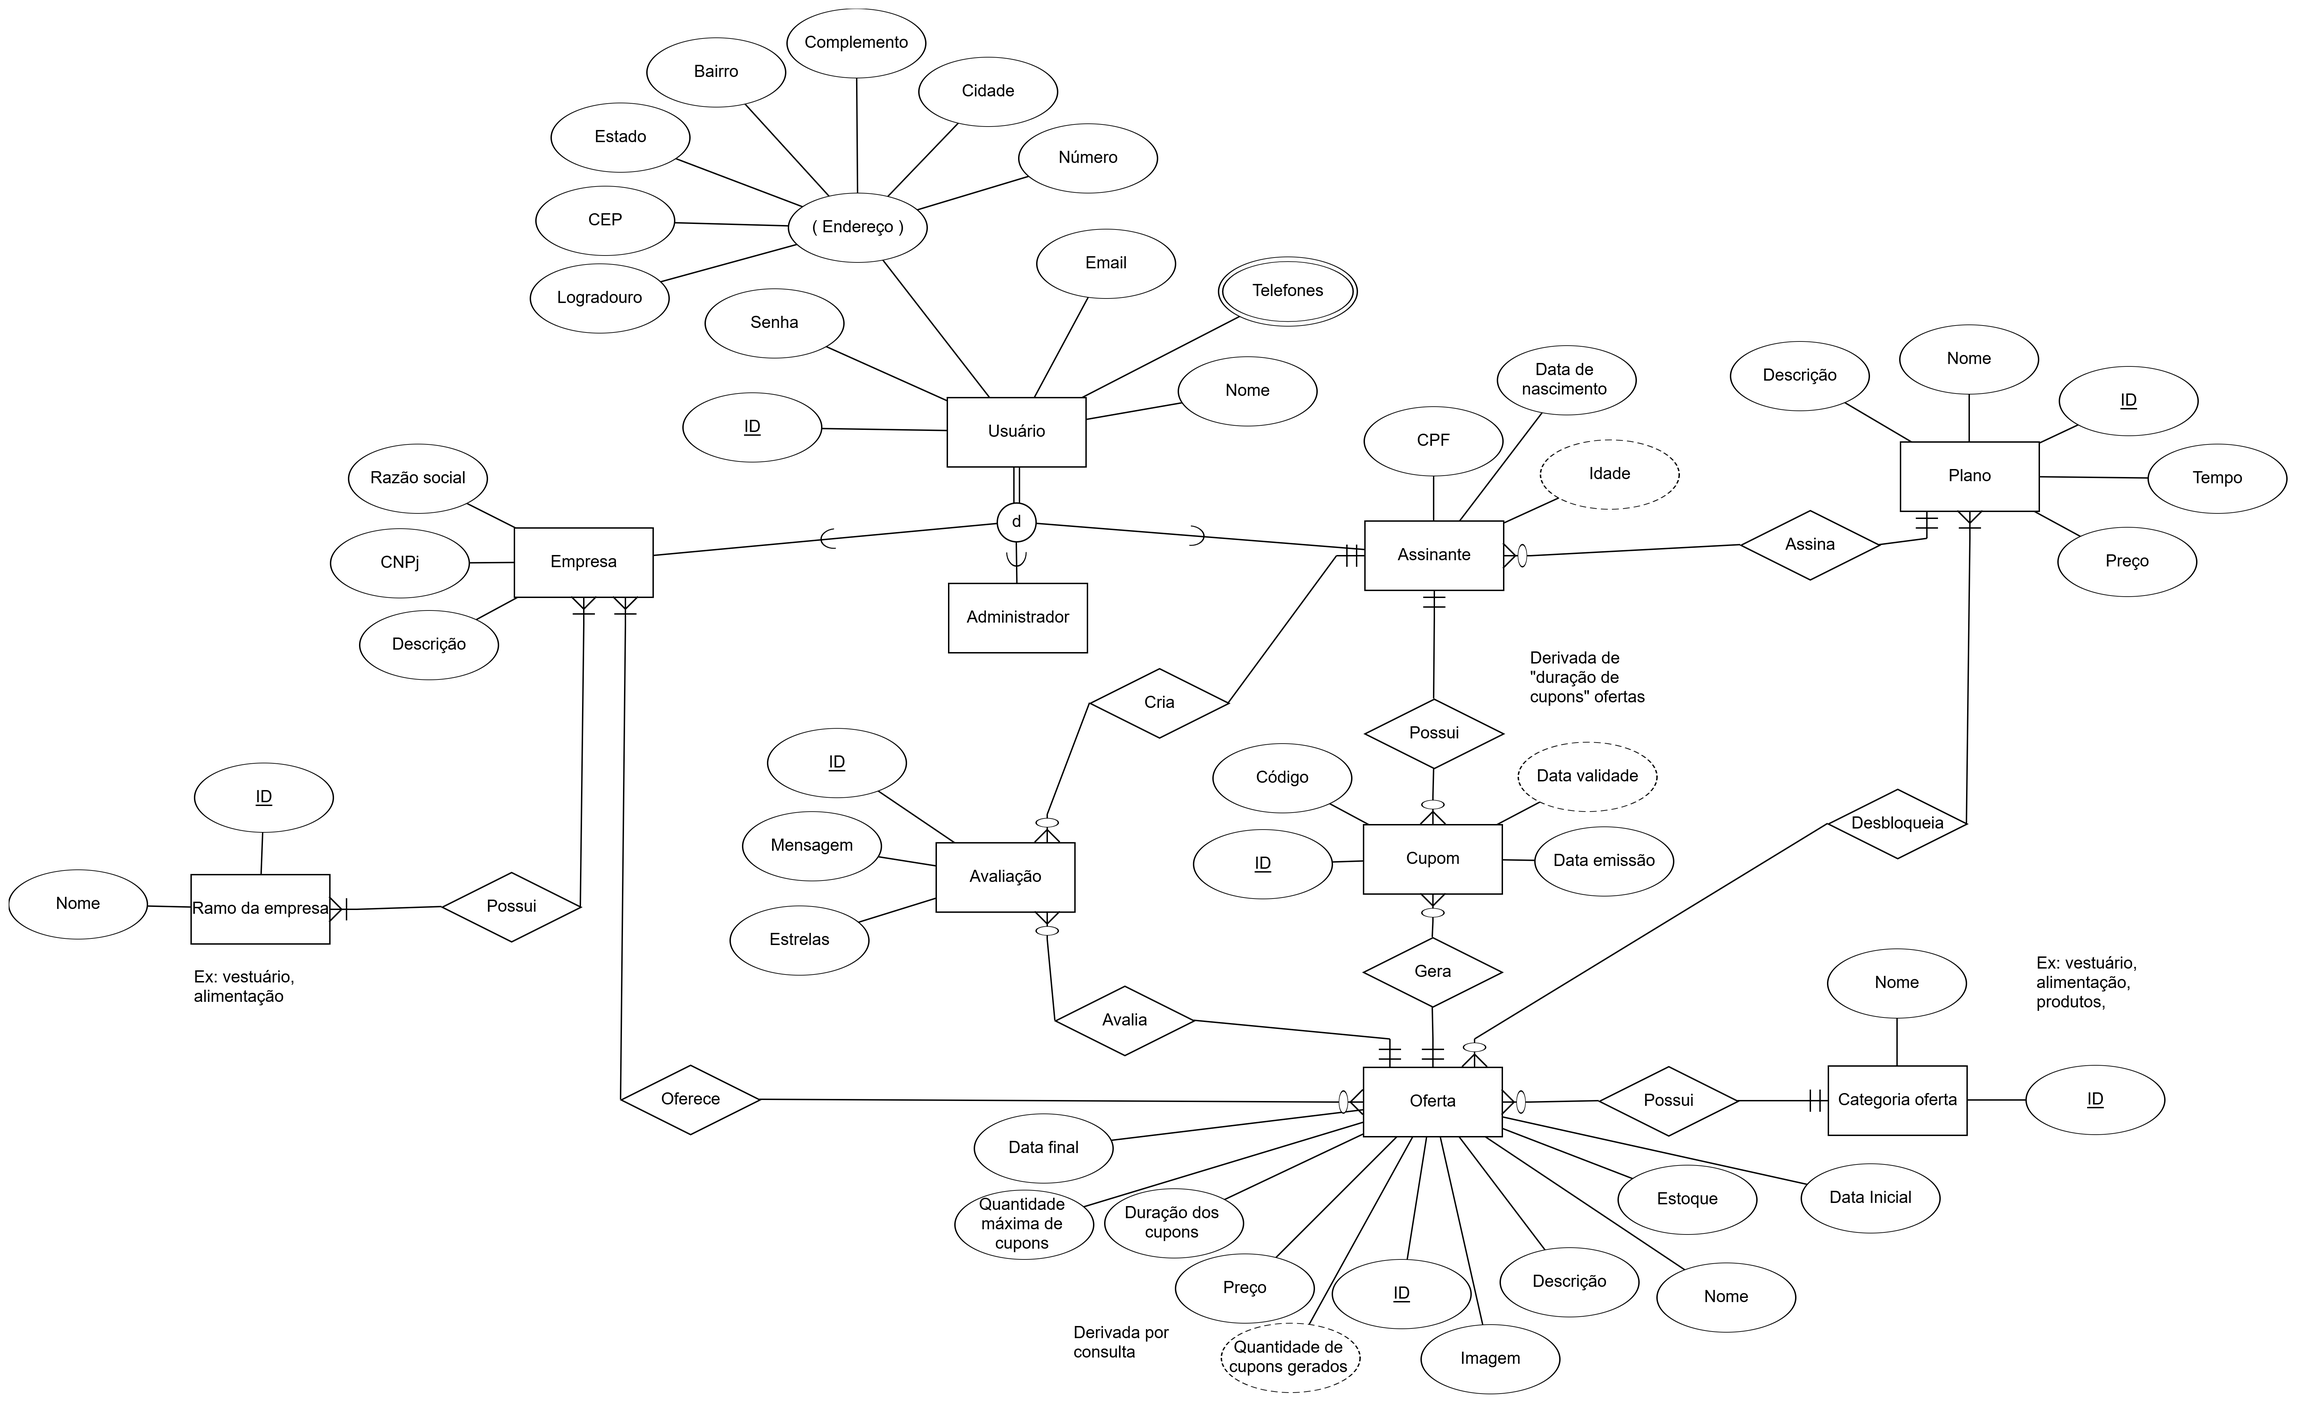
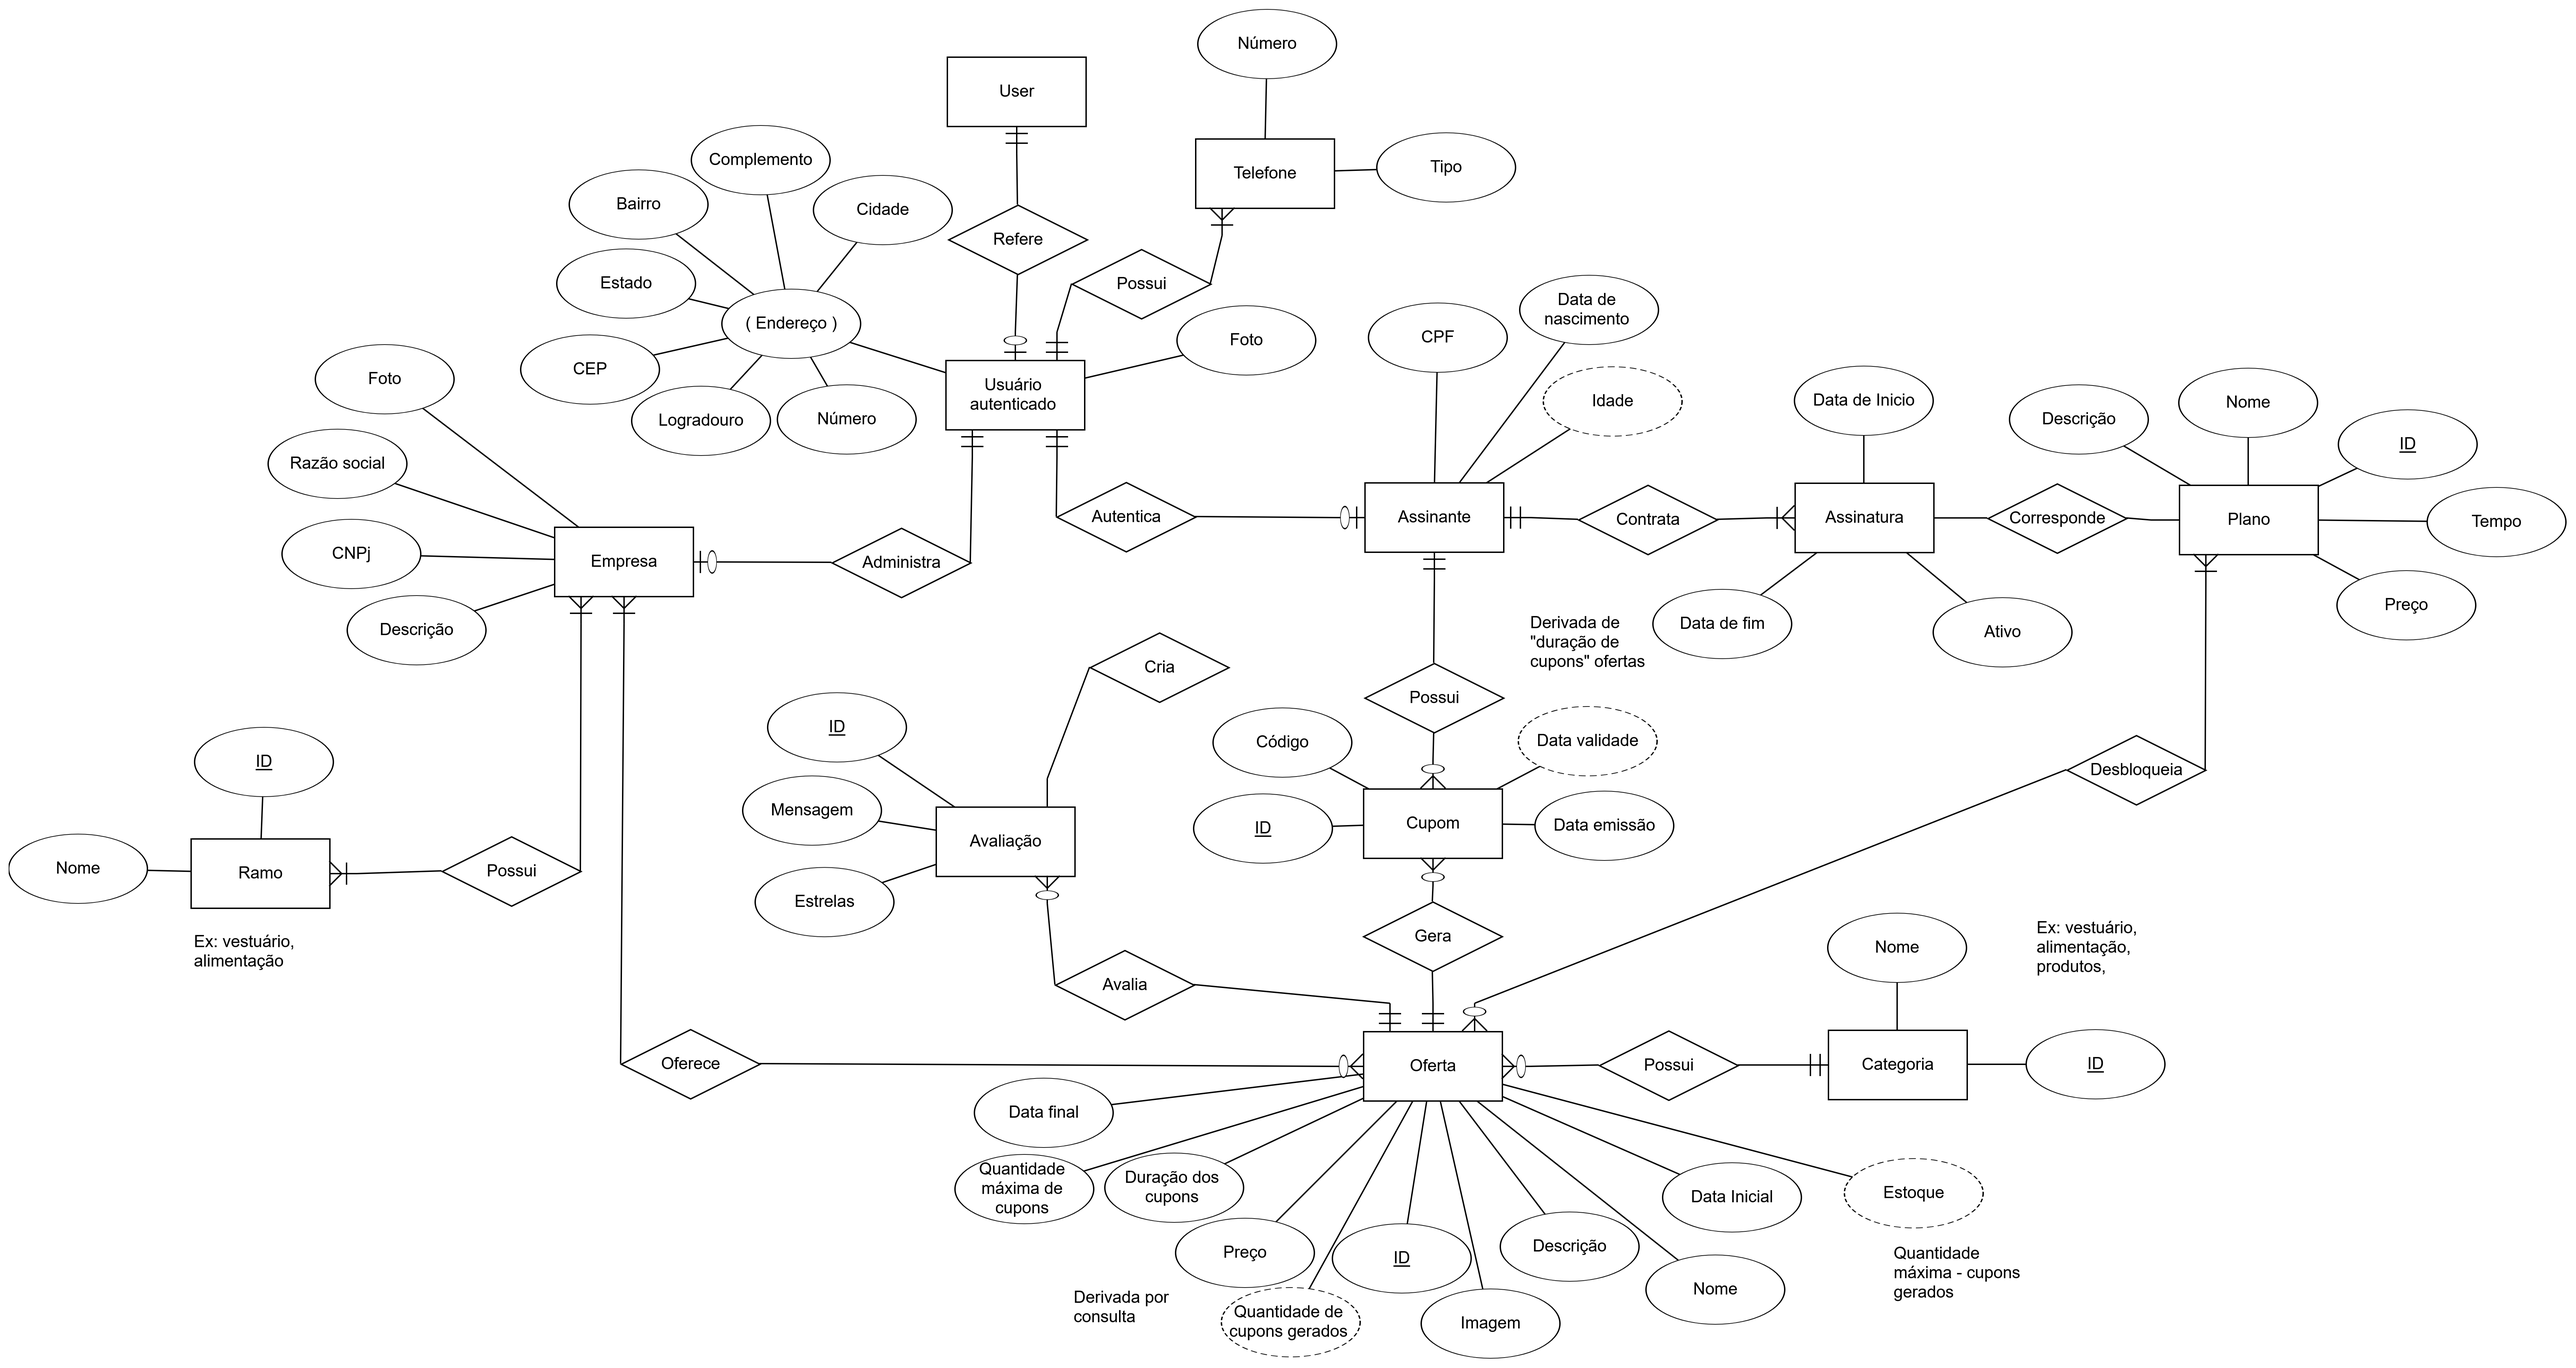
Inclusão do modelo de domínio e atualização dos arquivos de entidade e relacionamento e casos de uso.

diff --git a/docs/casos_de_uso/modelo_de_cdu.md b/docs/casos_de_uso/modelo_de_cdu.md
@@ -1,8 +1,17 @@
 # Modelo de Casos de Uso
 
+## Histórico de Revisões
+
+|  Data  | Versão | Descrição | Autor |
+|:-------|:-------|:----------|:------|
+| 16/05/2025 | **1.00** | Versão Inicial  | Fellipe Aleixo |
+| 26/05/2025 | **2.00** | Versão com detalhamentos iniciais | Amanda Lara, Clara Teodósio, Heitor Barboza e Lucas Cássio  |
+| 30/06/2025 | **3.00** | Atualização da imagem do diagrama de casos de uso  | Heitor Barboza e Lucas Cássio |
+| - | - | - | - |
+
 ## 1. Diagrama de Casos de Uso
 
-![Diagrama de Casos de Uso](cdu_img.png)
+![Diagrama de Casos de Uso](cdu_offclub.png)
 
 ## 2. Listagem dos detalhamentos dos casos de uso
 

diff --git a/README.md b/README.md
@@ -44,6 +44,7 @@ Para o desenvolvimento do projeto a equipe se comunicará através do **Discord*
 * [Documento de visão](./docs/Visao_OffClub.md)
 * [Modelo de Casos de Uso](./docs/casos_de_uso/modelo_de_cdu.md)
 * [Modelo de Entidades e Relacionamento](./docs/er/modelo_er.md)
+* [Modelo de Domínio](./docs/modelos_de_dominio/modelo_dominio.md)
 * [Mapa do site](https://www.figma.com/board/vEwdHDyp7MIktbrJIxaFMm/Mapa-do-site-Offclub?node-id=0-1&t=ewSuifi2DYR5T6vo-1)
 * [Protótipo](https://www.figma.com/design/gKuAlxfR0AhlUVnhSf7Dfr/OffClub---Prot%C3%B3tipo---Designs?node-id=12-2&t=CWYd28mcVz5GG3T8-1)
 

diff --git a/docs/er/modelo_er.md b/docs/er/modelo_er.md
@@ -5,8 +5,9 @@
 |  Data  | Versão | Descrição | Autor |
 |:-------|:-------|:----------|:------|
 | 16/05/2025 | **1.00** | Versão Inicial  | Fellipe Aleixo |
+| 30/06/2025 | **2.00** | Correção com base nas classes de domínio | Heitor Barboza |
 | - | - | - | - |
 
 ## Diagrama de Entidade e Relacionamentos
 
-![Diagrama de Entidades e Relacionamento](diagrama_er.png)
+![Diagrama de Entidades e Relacionamento](der_offclub.png)

diff --git a/docs/modelos_de_dominio/modelo_dominio.md b/docs/modelos_de_dominio/modelo_dominio.md
@@ -1,0 +1,12 @@
+# Modelos de Domínio
+
+## Histórico de Revisões
+
+|  Data  | Versão | Descrição | Autor |
+|:-------|:-------|:----------|:------|
+| 30/06/2025 | **1.00** | Versão Inicial  | Fellipe Aleixo e Heitor Barboza |
+| - | - | - | - |
+
+## Diagrama de Modelos de Domínio
+
+![Diagrama de Entidades e Relacionamento](modelo_dominio.png)
